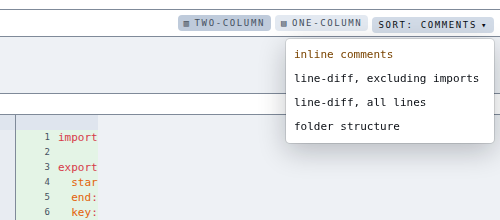
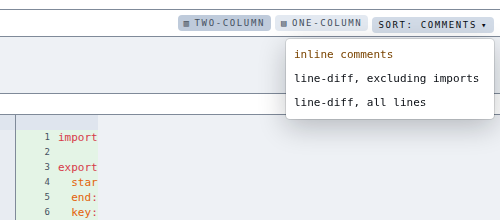
Drop the folder-structure sort option
The parent-folder flat list is now the only file-list rendering, so the
grouped folder view and its dropdown choice are gone; folder order still
serves as the stable tie-break base for every sort. A stored 'folder'
preference falls back to the default comments sort.

Claude-Session: https://claude.ai/code/session_01MevWi1t1TSKfqSZKMRVyGx

Changed region(s): [[0.57, 0.5182, 0.99, 0.7091]]

diff --git a/src/features/pull-requests/ChangedFileTree.tsx b/src/features/pull-requests/ChangedFileTree.tsx
@@ -2,46 +2,27 @@
 
 import { ChangeCounts } from './ChangeCounts';
 import { useColumnNav } from './columnNav';
-import { useDiffSort } from './diffSortStore';
 import { fileKindColor, splitExtension } from './fileKind';
-import { baseName, folderOf, groupByFolder } from './fileTree';
+import { baseName, folderOf } from './fileTree';
 import type { ChangedFile } from './pullRequests';
 import { rowShowsAccent, rowStateClass } from '@/features/surface-ui/rowState';
 import { SelectableRow } from '@/features/surface-ui/SelectableRow';
 
-const ROW = 'flex w-full items-baseline gap-1.5 py-[1px] pr-1.5 text-left text-[11px] leading-4';
+const ROW = 'flex w-full items-baseline gap-1.5 py-[1px] pl-1.5 pr-1.5 text-left text-[11px] leading-4';
 
-interface TreeProps {
+export function ChangedFileTree({
+  files,
+  selected,
+  onSelect,
+}: {
   files: ChangedFile[];
   selected: string | null;
   onSelect: (filename: string) => void;
-}
-
-export function ChangedFileTree(props: TreeProps) {
-  const grouped = useDiffSort() === 'folder';
-  return grouped ? <GroupedRows {...props} /> : <FlatRows {...props} />;
-}
-
-function GroupedRows({ files, selected, onSelect }: TreeProps) {
-  return (
-    <>
-      {groupByFolder(files).map((group) => (
-        <div key={group.folder}>
-          <FolderLabel folder={group.folder} />
-          {group.files.map((file) => (
-            <FileRow key={file.filename} file={file} selected={selected} onSelect={onSelect} indented={group.folder !== ''} />
-          ))}
-        </div>
-      ))}
-    </>
-  );
-}
-
-function FlatRows({ files, selected, onSelect }: TreeProps) {
+}) {
   return (
     <>
       {files.map((file) => (
-        <FileRow key={file.filename} file={file} selected={selected} onSelect={onSelect} indented={false} withParent />
+        <FileRow key={file.filename} file={file} selected={selected} onSelect={onSelect} />
       ))}
     </>
   );
@@ -51,24 +32,20 @@ function FileRow({
   file,
   selected,
   onSelect,
-  indented,
-  withParent = false,
 }: {
   file: ChangedFile;
   selected: string | null;
   onSelect: (filename: string) => void;
-  indented: boolean;
-  withParent?: boolean;
 }) {
   const row = useColumnNav('files').row(file.filename, file.filename === selected);
   return (
     <SelectableRow
       {...row.props}
       onActivate={() => onSelect(file.filename)}
-      className={`${ROW} ${indented ? 'pl-4' : 'pl-1.5'} ${rowStateClass(row.state)}`}
+      className={`${ROW} ${rowStateClass(row.state)}`}
     >
       <span className="min-w-0 flex-1 truncate">
-        {withParent && <ParentFolder path={file.filename} />}
+        <ParentFolder path={file.filename} />
         <FileName path={file.filename} tinted={!rowShowsAccent(row.state)} />
       </span>
       <ChangeCounts additions={file.additions} deletions={file.deletions} />
@@ -90,14 +67,5 @@ function FileName({ path, tinted }: { path: string; tinted: boolean }) {
       {stem}
       <span style={color ? { color } : undefined}>{extension}</span>
     </>
-  );
-}
-
-function FolderLabel({ folder }: { folder: string }) {
-  if (!folder) return null;
-  return (
-    <p dir="rtl" className="truncate px-1.5 py-[1px] text-left text-[10px] leading-4 text-ink-dim opacity-50">
-      {folder}
-    </p>
   );
 }

diff --git a/src/features/pull-requests/diffSortStore.ts b/src/features/pull-requests/diffSortStore.ts
@@ -2,7 +2,7 @@
 
 import { localPref, usePref } from './localPref';
 
-export type DiffSort = 'comments' | 'diff' | 'diffAll' | 'folder';
+export type DiffSort = 'comments' | 'diff' | 'diffAll';
 
 const sortPref = localPref<DiffSort>('reposcope.diffSort', 'comments', decodeSort);
 
@@ -15,7 +15,5 @@ export function useDiffSort(): DiffSort {
 }
 
 function decodeSort(stored: unknown): DiffSort | undefined {
-  return stored === 'comments' || stored === 'diff' || stored === 'diffAll' || stored === 'folder'
-    ? stored
-    : undefined;
+  return stored === 'comments' || stored === 'diff' || stored === 'diffAll' ? stored : undefined;
 }

diff --git a/src/features/pull-requests/diffSort.ts b/src/features/pull-requests/diffSort.ts
@@ -13,7 +13,6 @@ export function commentCountsOf(threads: ReviewThread[]): Map<string, number> {
 
 export function sortChangedFiles(files: ChangedFile[], sort: DiffSort, comments: Map<string, number>): ChangedFile[] {
   const base = sortByFolder(files);
-  if (sort === 'folder') return base;
   if (sort === 'diffAll') return byDescending(base, allDiffCount);
   if (sort === 'diff') return byDescending(base, nonImportDiffCount);
   return byDescending(base, (file) => comments.get(file.filename) ?? 0, nonImportDiffCount);

diff --git a/src/features/pull-requests/DiffSortMenu.tsx b/src/features/pull-requests/DiffSortMenu.tsx
@@ -8,7 +8,6 @@ const CHOICES: { sort: DiffSort; label: string; short: string }[] = [
   { sort: 'comments', label: 'inline comments', short: 'comments' },
   { sort: 'diff', label: 'line-diff, excluding imports', short: 'line-diff' },
   { sort: 'diffAll', label: 'line-diff, all lines', short: 'line-diff (all)' },
-  { sort: 'folder', label: 'folder structure', short: 'folders' },
 ];
 
 export function DiffSortMenu() {
